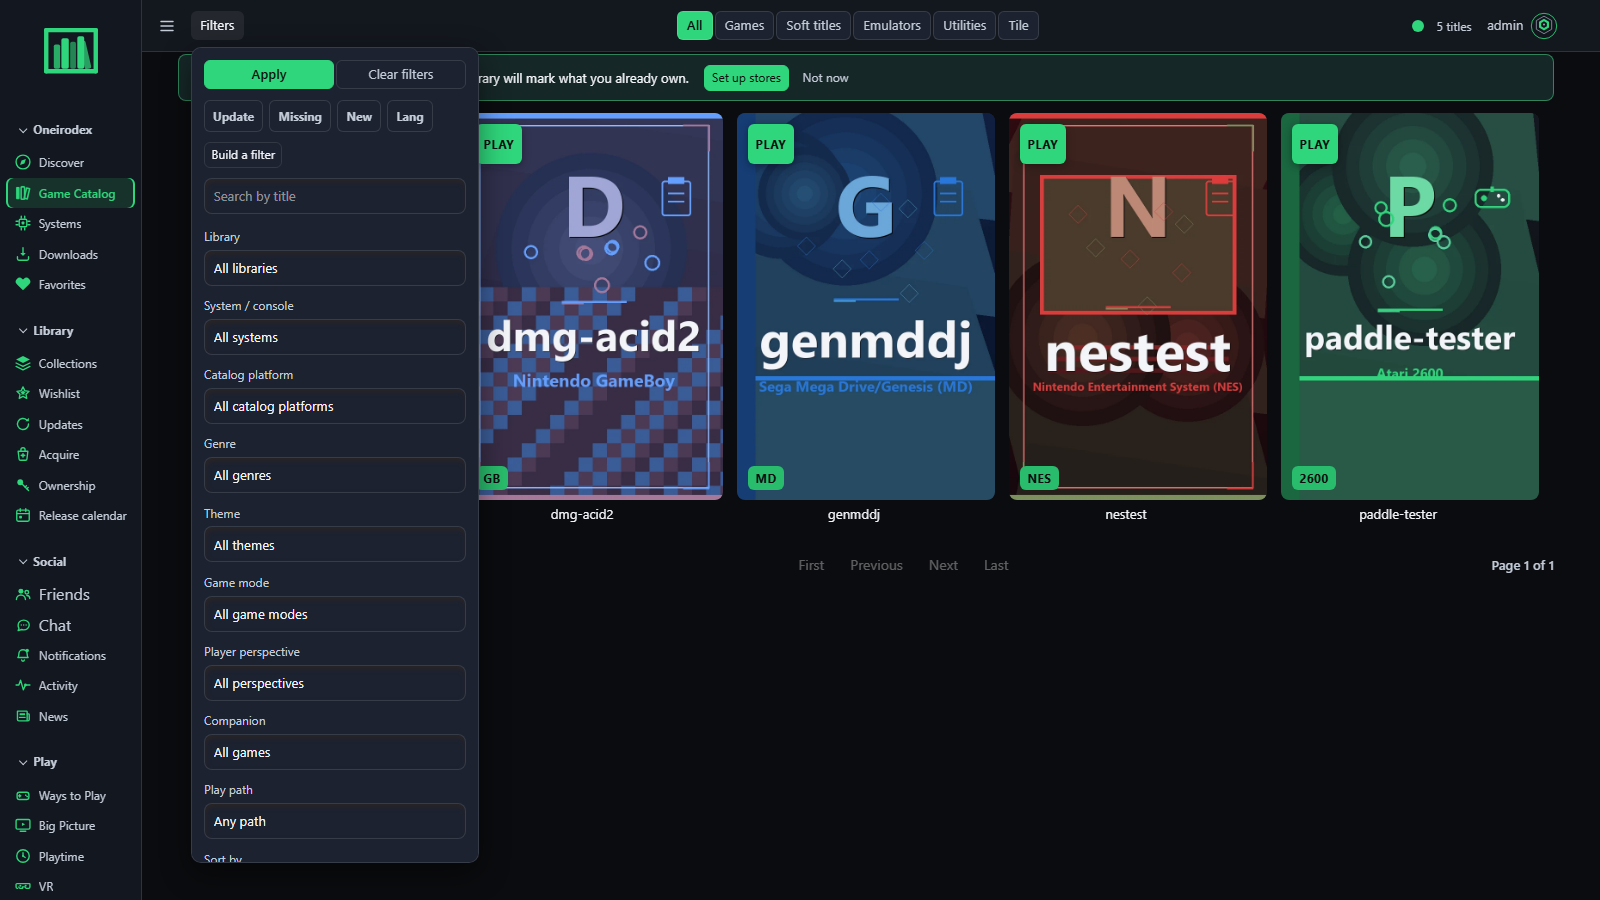
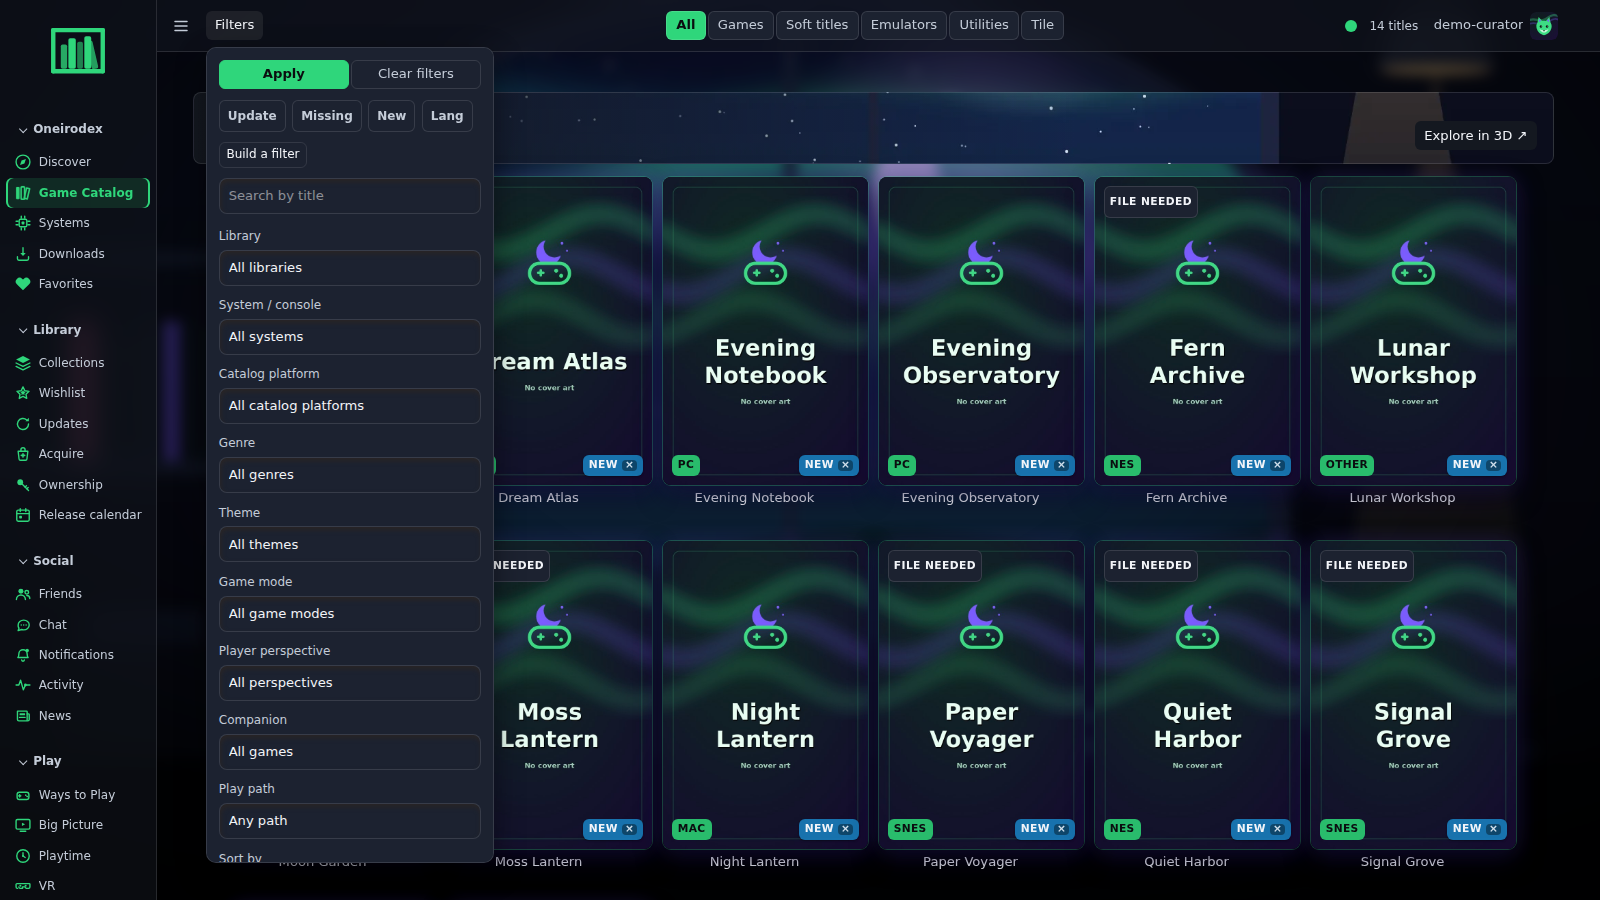
docs(release): publish verified 1.3.3 theme and README captures

diff --git a/docs/assets/readme/CAPTURE.md b/docs/assets/readme/CAPTURE.md
@@ -2,6 +2,17 @@
 
 > **Doc status:** Active
 
+**1.3.3 release refresh — 2026-11-21:** [run 44972917024](https://github.com/cephyrixzyth/Oneirodex/actions/runs/44972917024)
+captured source `84c48c86e7e7209d97b4446a1f4f0a8eea1956ae` with all five rebuilt
+SPAs, 14 synthetic catalog entries and three messages from two synthetic users.
+All 13 README stills and eight theme stills were inspected at 1600×900. Real
+theme saves/reloads verified each member cover and stock-avatar URL; default
+dark mode passed with a light OS preference. No static asset failed, and the
+owned database cleanup passed. README slots, matching docs stills and the app
+icon were refreshed; the hero is the actual Library screenshot. Hashes and
+coverage limits: [theme-art release evidence](../../dev/parity-evidence/theme-art-release-v1.3.3.json).
+Narrated videos and their poster frames retain their 2026-10-14 context.
+
 ## Disposable CI capture
 
 For a release whose verification must stay off the operator workstation, run
@@ -41,8 +52,9 @@ for this type-only correction. See [R2040](../../dev/parity-evidence/bootstrap-f
 **Focused support-preview QA:** R2032 uses populated isolated native staging and fingerprinted candidate assets in headless Chromium, with mandatory preview and configured/unconfigured local-only flows. Desktop and375px mobile captures were inspected after the rail settled off-canvas. Screenshots remain private; hashes and bounds are in [R2032](../../dev/parity-evidence/support-preview-r2032.json). This focused Report-page change does not replace the Library, Systems or Chat README slots. No external issue was sent; all owned staging resources were removed. Delivery/retry acceptance remains open.
 
 Every screenshot, poster, banner and how-to clip under `docs/assets/readme/`
-and `docs/media/` is produced by four scripts against a **throwaway local
-instance**. Nothing here is a mock-up: if a surface cannot be photographed
+and `docs/media/` is produced by the capture scripts against a **throwaway
+instance**, locally or in the explicitly selected disposable CI job above.
+Nothing here is a mock-up: if a surface cannot be photographed
 honestly it is skipped and the run says so.
 
 For a focused parity fix, a screenshot may also come from an isolated local
@@ -136,7 +148,7 @@ hits a store, an AI endpoint or the core CDN.
 
 | Slot | Source | Notes |
 |---|---|---|
-| `hero-banner.png` | `screenshot-discover.png` composited by `render_readme_art.py` | real pixels in a frame on the token background |
+| `hero-banner.png` | actual `screenshot-library.png` (1.3.3) | exact capture pixels |
 | `screenshot-library.png` | `/library`, tile slider pushed to 80 % | |
 | `screenshot-filters.png` | `/library` with Filters open | |
 | `screenshot-game.png` | first tile's game page | `game-details-full.png` in media is the full page |

diff --git a/docs/dev/ui-debt-log.md b/docs/dev/ui-debt-log.md
@@ -13,7 +13,7 @@ Status: `open` | `in_progress` | `done` | `deferred` | `wontfix`
 
 ## Open / recurring debts (human 2026-08-01 + prior)
 
-| UID-229 | Theme artwork and member identity | Stock avatars and placeholder covers previously used the default artwork; picker cards did not show each design | 1.3.3 adds per-request theme context, eight themed stock avatars, cover lettering and miniature picker cards. Pure cover/context checks and shared UI verification are recorded during release preparation; populated remote browser review is pending. Broader classic-route and theme-pack parity remain under UID-082. | Themes / Preferences | in_progress |
+| UID-229 | Theme artwork and member identity | Stock avatars and placeholder covers previously used the default artwork; picker cards did not show each design | 1.3.3 adds per-request theme context, eight themed stock avatars, cover lettering and miniature picker cards. Remote populated Chromium review passes all eight theme saves/reloads, cover/avatar URLs, default dark mode and 13 README stills; screenshots inspected and cleanup verified. Focused cover/context/shared checks pass. [Evidence](parity-evidence/theme-art-release-v1.3.3.json). Broader classic-route, mobile, accessibility and theme-pack parity remain under UID-082. | Themes / Preferences | done (bounded correction) |
 
 | UID-228 | Cross-tab private browser state | Delayed responses or first mounting of old HTML could show the prior account | R2037 retires mounted member/admin/Ops trees. R2038 verifies the live account before first member render and reuses focused recovery, including timeout and worker-barrier controls. Actual delayed-first-load and fresh-child navigation pass. R2040 corrects full-config typing; 1,266 member checks pass and 65 production files match byte-for-byte. Classic/server-only, frozen/offline, other-engine and full independent acceptance remain open. | Member / Admin / Ops | in_progress |
 | UID-227 | Support forwarding consent | The unchecked opt-in had no destination-specific redacted preview | Mandatory redacted preview, durable receipts, fresh explicit retry after definite rejection/skipping, and exact-match read-only reconciliation implemented. R2034 covers cooldown/budgets, lost replies, concurrency, private mismatch refusal and populated headless recovery. Actual provider permissions/visibility and the whole-program independent acceptance review remain open. | Report / Support inbox | in_progress |

diff --git a/README.md b/README.md
@@ -41,7 +41,7 @@
 
 Oneirodex is a **FastAPI + React** server you run at home or on a NAS. Point it at folders of DRM-free games and ROMs, let it identify them against IGDB / Steam / GOG / RAWG, then give the household a modern browser app to **browse, download, play in the browser where a system supports it, and hang out** — with a desktop companion for PC titles and a ten-foot mode for the TV.
 
-Every screenshot and clip on this page is **live UI** from a stock install seeded with five legal free ROMs: what you see is what ships.
+Screenshots show **real Oneirodex UI** with synthetic catalog and chat data. The video walkthroughs were recorded on 2026-10-14 with five legal free ROMs; their visual details predate the 1.3.3 artwork.
 
 <table>
 <tr><td>🏷 <b>Release</b></td><td><a href="CHANGELOG.md">1.3.3</a> · <a href="VERSION"><code>VERSION</code></a></td><td>🌐 <b>Default URL</b></td><td><code>http://localhost:5006</code></td></tr>
@@ -154,7 +154,7 @@ More surfaces — friends dock, collections, calendar, news, help, every admin p
 <details>
 <summary>📷 How these are made</summary>
 
-Stills are shot by [`scripts/capture_docs_media.py`](scripts/capture_docs_media.py) against a throwaway instance that [`scripts/serve_capture.py`](scripts/serve_capture.py) brings up — a scratch database, the five legal sample ROMs, covers from Art studio, a little chat history. Every shot passes a health gate (no error page, not empty, theme stylesheet actually loaded) or the file on disk is left alone. The banners and cards on this page are drawn by [`scripts/render_readme_art.py`](scripts/render_readme_art.py) from the theme tokens and the rail icons the app ships. Recipe: [CAPTURE.md](docs/assets/readme/CAPTURE.md).
+Stills are shot by [`scripts/capture_docs_media.py`](scripts/capture_docs_media.py) against a populated throwaway instance. Release captures can run in isolated CI with a synthetic catalog and two-author chat history. Every shot passes a health gate (no error page, not empty, theme stylesheet actually loaded) or the file on disk is left alone. The hero uses the actual Library capture; section art comes from the shipped theme tokens and rail icons. Recipe and capture evidence: [CAPTURE.md](docs/assets/readme/CAPTURE.md).
 
 </details>
 

diff --git a/docs/dockerhub-overview.md b/docs/dockerhub-overview.md
@@ -2,7 +2,7 @@
 
 > **Doc status:** Active
 
-![Oneirodex Discover, captured from the live app](https://raw.githubusercontent.com/cephyrixzyth/Oneirodex/main/docs/assets/readme/hero-banner.png)
+![Oneirodex Library, captured from the live app](https://raw.githubusercontent.com/cephyrixzyth/Oneirodex/main/docs/assets/readme/hero-banner.png)
 
 Oneirodex is a self-hosted home for the games you already own. Scan mounted game folders, organize a shared catalog, enrich it with metadata and artwork, and give your household a polished place to browse, collect, discuss, download, and play supported titles.
 
